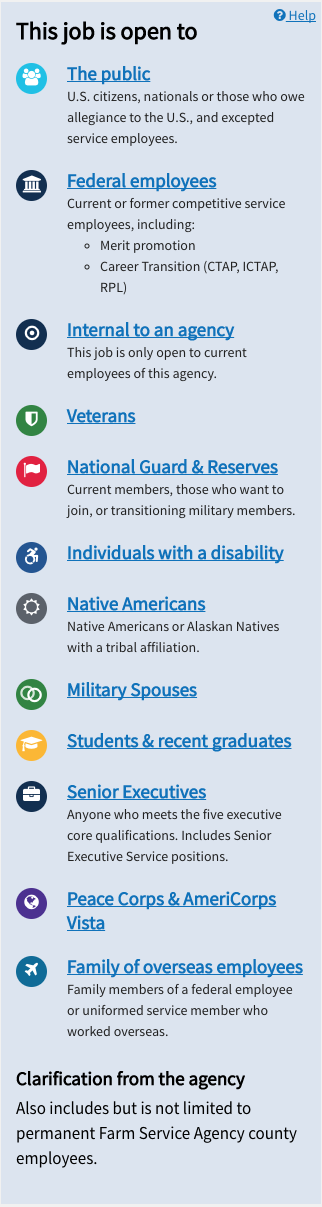
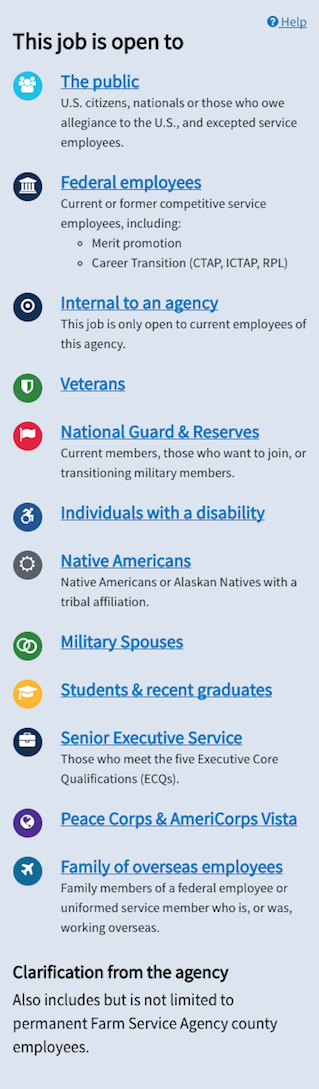
Corrects the v6.7 screenshot of the hiring paths

diff --git a/job-announcement-playbook/details/this-job-is-open-to/index.html b/job-announcement-playbook/details/this-job-is-open-to/index.html
@@ -40,8 +40,8 @@
   "@type": "WebPage",
   "mainEntityOfPage": "http://usajobs.github.io/ATP-Support//ATP-Support/job-announcement-playbook/details/this-job-is-open-to/",
   "headline": "This job is open to",
-  "datePublished": "2017-10-25T11:13:36-04:00",
-  "dateModified": "2017-10-25T11:13:36-04:00",
+  "datePublished": "2017-10-25T11:35:18-04:00",
+  "dateModified": "2017-10-25T11:35:18-04:00",
   "description": "Get help with strategic recruitment.",
   "author": {
     "@type": "Organization",
@@ -4213,6 +4213,8 @@ li.usa-footer-primary-content {
   </tbody>
 </table>
 
+<p>If you need to debug why a job announcement is being assigned a hiring path based on the text you provide then you and your Talent Acquisition System (TAS) vendor may find the <a href="https://developer.usajobs.gov/General/Hiring-Paths">full list of valid and invalid text for hiring paths</a> (production) on our developer site (<a href="https://developer.uat.usajobs.gov/General/Hiring-Paths">uat</a>).</p>
+
 <p><strong>NOTE:</strong> We have established our Hiring Paths as an enumerated list that your Talent Acquisition System (TAS) vendor can use in the future to allow you to select valid options without having to supply the text. The two fields are named “Hiring Path Code” and “Hiring Path Explanation” in our <a href="https://developer.usajobs.gov/General/Schemas">Data Dictionary</a>. Talk to your vendor about this feature. We strongly encourage agencies to switch to using these new fields. String parsing is a temporary solution that allows us to transition to a more structured way of providing and presenting this information to job seekers.</p>
 
 <h4 id="example">Example</h4>
@@ -4221,7 +4223,7 @@ li.usa-footer-primary-content {
 
 <div class="usajobs-recruitment-joa-playbook-details__example-img this-job-is-open-to">
   <amp-img src="/ATP-Support/assets/images/job-announcement-playbook/this-job-is-open-to-v6.7.png" srcset="/ATP-Support/assets/images/job-announcement-playbook/this-job-is-open-to-v6.7.png 768w,
-  /ATP-Support/assets/images/job-announcement-playbook/this-job-is-open-to-v6.7-SM.png 100w" width="322" height="1207" layout="responsive" alt="This job is open to... v6.7 example"></amp-img>
+  /ATP-Support/assets/images/job-announcement-playbook/this-job-is-open-to-v6.7-SM.png 100w" width="319" height="1089" layout="responsive" alt="This job is open to... v6.7 example"></amp-img>
 </div>
 
 <h3 id="second-announcement">Second announcement</h3>

diff --git a/job-announcement-playbook/details/requirements/background-check/index.html b/job-announcement-playbook/details/requirements/background-check/index.html
@@ -40,8 +40,8 @@
   "@type": "WebPage",
   "mainEntityOfPage": "http://usajobs.github.io/ATP-Support//ATP-Support/job-announcement-playbook/details/requirements/background-check/",
   "headline": "Background check and security clearance",
-  "datePublished": "2017-10-25T11:13:36-04:00",
-  "dateModified": "2017-10-25T11:13:36-04:00",
+  "datePublished": "2017-10-25T11:35:18-04:00",
+  "dateModified": "2017-10-25T11:35:18-04:00",
   "description": "Get help with strategic recruitment.",
   "author": {
     "@type": "Organization",

diff --git a/job-announcement-playbook/details/requirements/how-you-will-be-evaluated/index.html b/job-announcement-playbook/details/requirements/how-you-will-be-evaluated/index.html
@@ -40,8 +40,8 @@
   "@type": "WebPage",
   "mainEntityOfPage": "http://usajobs.github.io/ATP-Support//ATP-Support/job-announcement-playbook/details/requirements/how-you-will-be-evaluated/",
   "headline": "How you will be evaluated",
-  "datePublished": "2017-10-25T11:13:36-04:00",
-  "dateModified": "2017-10-25T11:13:36-04:00",
+  "datePublished": "2017-10-25T11:35:18-04:00",
+  "dateModified": "2017-10-25T11:35:18-04:00",
   "description": "Get help with strategic recruitment.",
   "author": {
     "@type": "Organization",

diff --git a/job-announcement-playbook/details/requirements/conditions-of-employment/index.html b/job-announcement-playbook/details/requirements/conditions-of-employment/index.html
@@ -40,8 +40,8 @@
   "@type": "WebPage",
   "mainEntityOfPage": "http://usajobs.github.io/ATP-Support//ATP-Support/job-announcement-playbook/details/requirements/conditions-of-employment/",
   "headline": "Conditions of Employment",
-  "datePublished": "2017-10-25T11:13:36-04:00",
-  "dateModified": "2017-10-25T11:13:36-04:00",
+  "datePublished": "2017-10-25T11:35:18-04:00",
+  "dateModified": "2017-10-25T11:35:18-04:00",
   "description": "Get help with strategic recruitment.",
   "author": {
     "@type": "Organization",

diff --git a/job-announcement-playbook/release-notes/v6.5/index.html b/job-announcement-playbook/release-notes/v6.5/index.html
@@ -40,8 +40,8 @@
   "@type": "WebPage",
   "mainEntityOfPage": "http://usajobs.github.io/ATP-Support//ATP-Support/job-announcement-playbook/release-notes/v6.5/",
   "headline": "Help for the USAJOBS Agency Talent Portal",
-  "datePublished": "2017-10-25T11:13:36-04:00",
-  "dateModified": "2017-10-25T11:13:36-04:00",
+  "datePublished": "2017-10-25T11:35:18-04:00",
+  "dateModified": "2017-10-25T11:35:18-04:00",
   "description": "Get help with strategic recruitment.",
   "author": {
     "@type": "Organization",

diff --git a/job-announcement-playbook/release-notes/v6.6/index.html b/job-announcement-playbook/release-notes/v6.6/index.html
@@ -40,8 +40,8 @@
   "@type": "WebPage",
   "mainEntityOfPage": "http://usajobs.github.io/ATP-Support//ATP-Support/job-announcement-playbook/release-notes/v6.6/",
   "headline": "Help for the USAJOBS Agency Talent Portal",
-  "datePublished": "2017-10-25T11:13:36-04:00",
-  "dateModified": "2017-10-25T11:13:36-04:00",
+  "datePublished": "2017-10-25T11:35:18-04:00",
+  "dateModified": "2017-10-25T11:35:18-04:00",
   "description": "Get help with strategic recruitment.",
   "author": {
     "@type": "Organization",

diff --git a/job-announcement-playbook/release-notes/v6.7/index.html b/job-announcement-playbook/release-notes/v6.7/index.html
@@ -40,8 +40,8 @@
   "@type": "WebPage",
   "mainEntityOfPage": "http://usajobs.github.io/ATP-Support//ATP-Support/job-announcement-playbook/release-notes/v6.7/",
   "headline": "Help for the USAJOBS Agency Talent Portal",
-  "datePublished": "2017-10-25T11:13:36-04:00",
-  "dateModified": "2017-10-25T11:13:36-04:00",
+  "datePublished": "2017-10-25T11:35:18-04:00",
+  "dateModified": "2017-10-25T11:35:18-04:00",
   "description": "Get help with strategic recruitment.",
   "author": {
     "@type": "Organization",

diff --git a/job-announcement-playbook/release-notes/index.html b/job-announcement-playbook/release-notes/index.html
@@ -40,8 +40,8 @@
   "@type": "WebPage",
   "mainEntityOfPage": "http://usajobs.github.io/ATP-Support//ATP-Support/job-announcement-playbook/release-notes/",
   "headline": "Help for the USAJOBS Agency Talent Portal",
-  "datePublished": "2017-10-25T11:13:36-04:00",
-  "dateModified": "2017-10-25T11:13:36-04:00",
+  "datePublished": "2017-10-25T11:35:18-04:00",
+  "dateModified": "2017-10-25T11:35:18-04:00",
   "description": "Get help with strategic recruitment.",
   "author": {
     "@type": "Organization",

diff --git a/job-announcement-playbook/case-studies/index.html b/job-announcement-playbook/case-studies/index.html
@@ -40,8 +40,8 @@
   "@type": "WebPage",
   "mainEntityOfPage": "http://usajobs.github.io/ATP-Support//ATP-Support/job-announcement-playbook/case-studies/",
   "headline": "Help for the USAJOBS Agency Talent Portal",
-  "datePublished": "2017-10-25T11:13:36-04:00",
-  "dateModified": "2017-10-25T11:13:36-04:00",
+  "datePublished": "2017-10-25T11:35:18-04:00",
+  "dateModified": "2017-10-25T11:35:18-04:00",
   "description": "Get help with strategic recruitment.",
   "author": {
     "@type": "Organization",

diff --git a/job-announcement-playbook/details/requirements/qualifications/index.html b/job-announcement-playbook/details/requirements/qualifications/index.html
@@ -40,8 +40,8 @@
   "@type": "WebPage",
   "mainEntityOfPage": "http://usajobs.github.io/ATP-Support//ATP-Support/job-announcement-playbook/details/requirements/qualifications/",
   "headline": "Qualifications",
-  "datePublished": "2017-10-25T11:13:36-04:00",
-  "dateModified": "2017-10-25T11:13:36-04:00",
+  "datePublished": "2017-10-25T11:35:18-04:00",
+  "dateModified": "2017-10-25T11:35:18-04:00",
   "description": "Get help with strategic recruitment.",
   "author": {
     "@type": "Organization",

diff --git a/job-announcement-playbook/details/fair-and-transparent/index.html b/job-announcement-playbook/details/fair-and-transparent/index.html
@@ -40,8 +40,8 @@
   "@type": "WebPage",
   "mainEntityOfPage": "http://usajobs.github.io/ATP-Support//ATP-Support/job-announcement-playbook/details/fair-and-transparent/",
   "headline": "Fair and Transparent",
-  "datePublished": "2017-10-25T11:13:36-04:00",
-  "dateModified": "2017-10-25T11:13:36-04:00",
+  "datePublished": "2017-10-25T11:35:18-04:00",
+  "dateModified": "2017-10-25T11:35:18-04:00",
   "description": "Get help with strategic recruitment.",
   "author": {
     "@type": "Organization",

diff --git a/job-announcement-playbook/details/index.html b/job-announcement-playbook/details/index.html
@@ -40,8 +40,8 @@
   "@type": "WebPage",
   "mainEntityOfPage": "http://usajobs.github.io/ATP-Support//ATP-Support/job-announcement-playbook/details/",
   "headline": "Help for the USAJOBS Agency Talent Portal",
-  "datePublished": "2017-10-25T11:13:36-04:00",
-  "dateModified": "2017-10-25T11:13:36-04:00",
+  "datePublished": "2017-10-25T11:35:18-04:00",
+  "dateModified": "2017-10-25T11:35:18-04:00",
   "description": "Get help with strategic recruitment.",
   "author": {
     "@type": "Organization",
